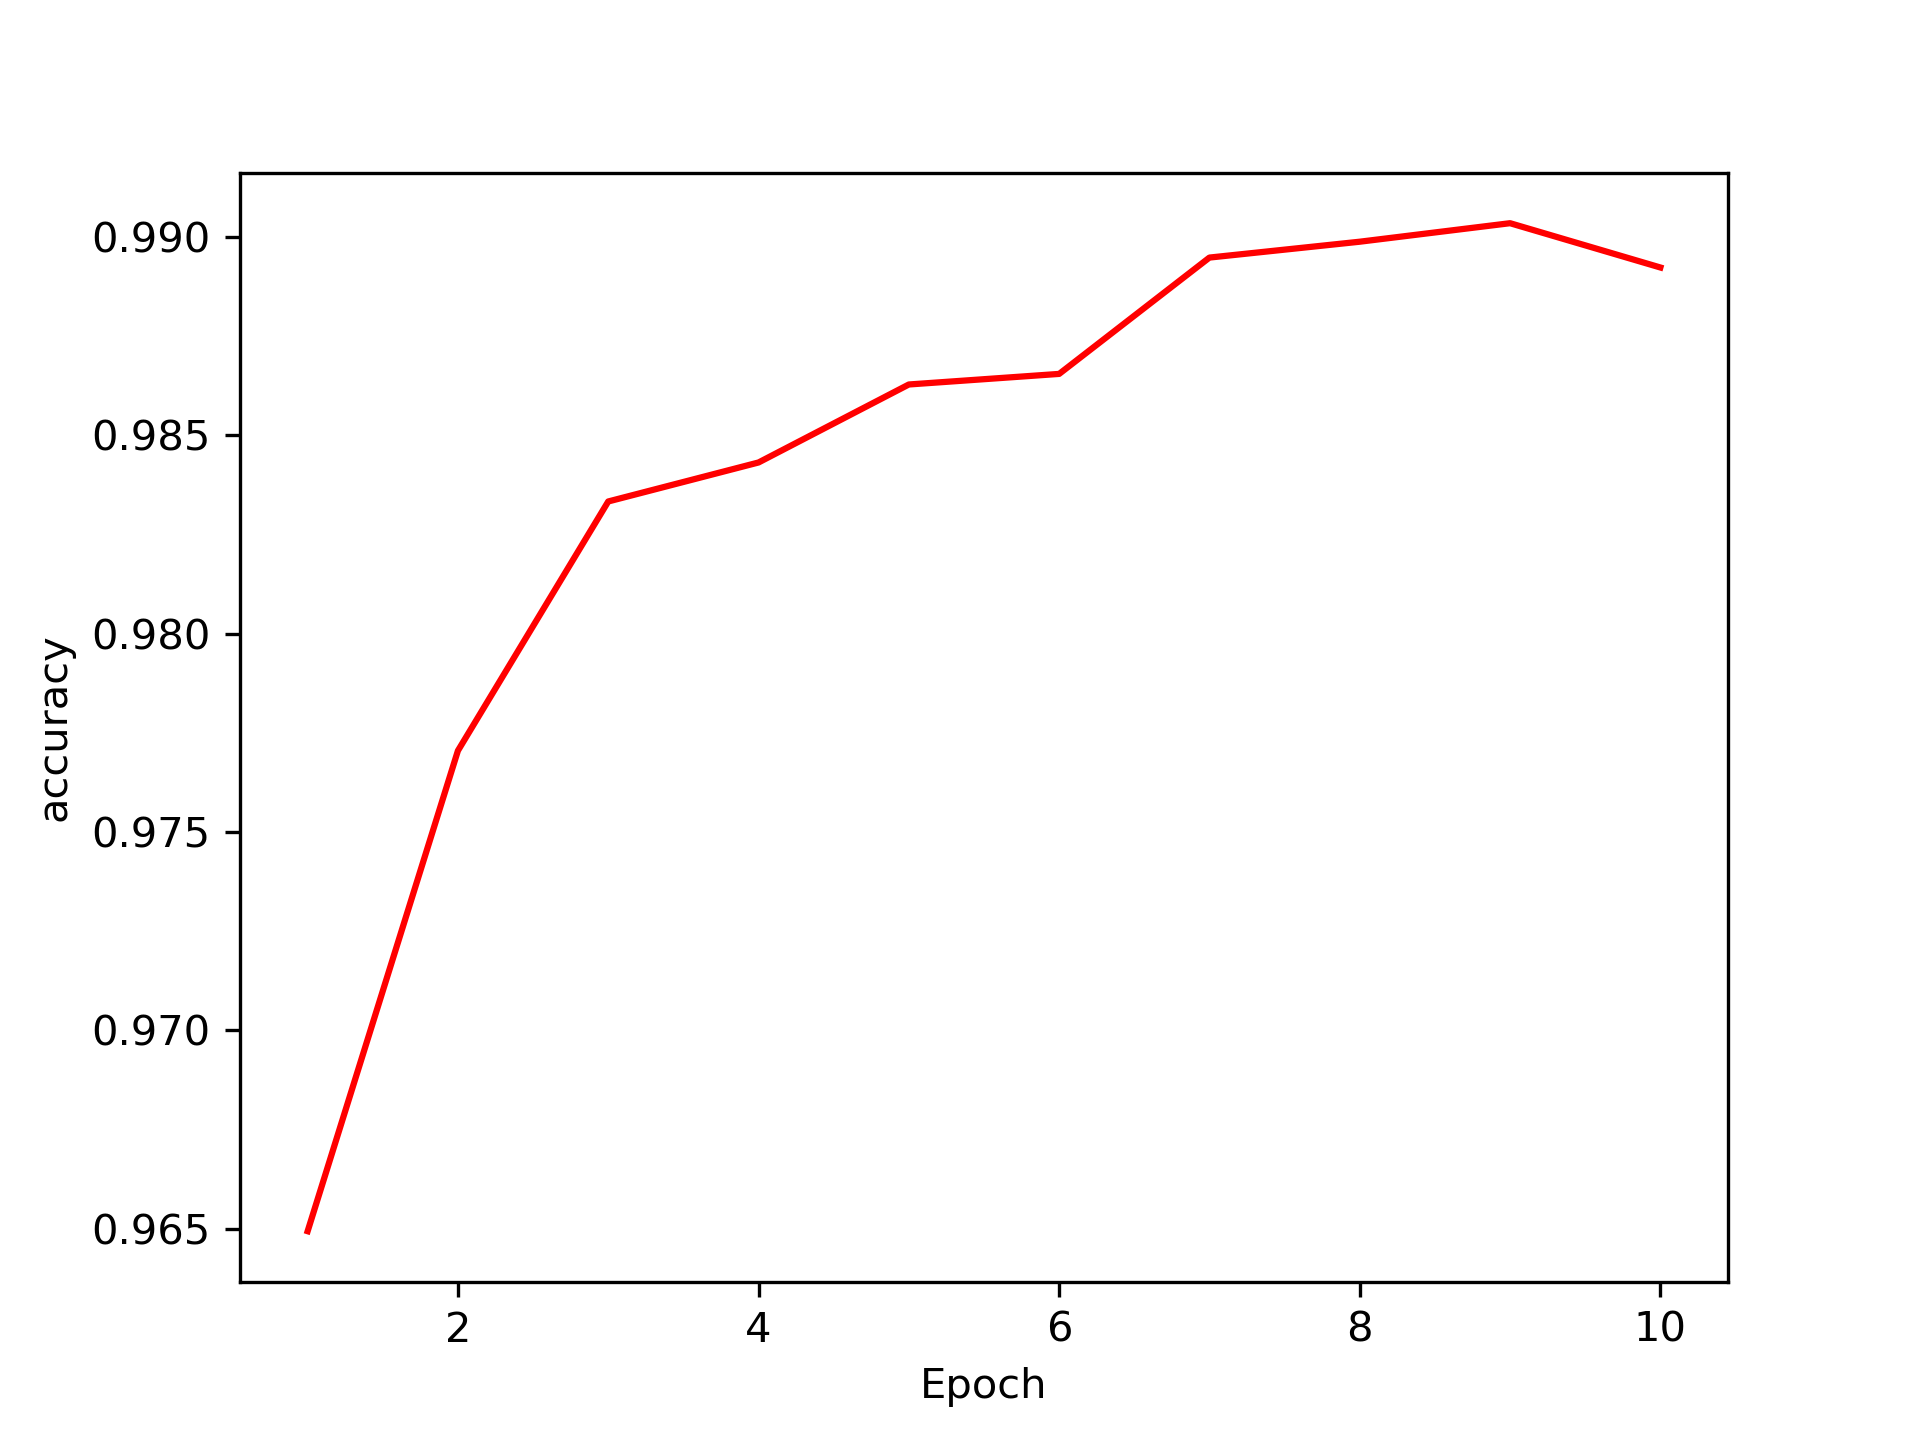
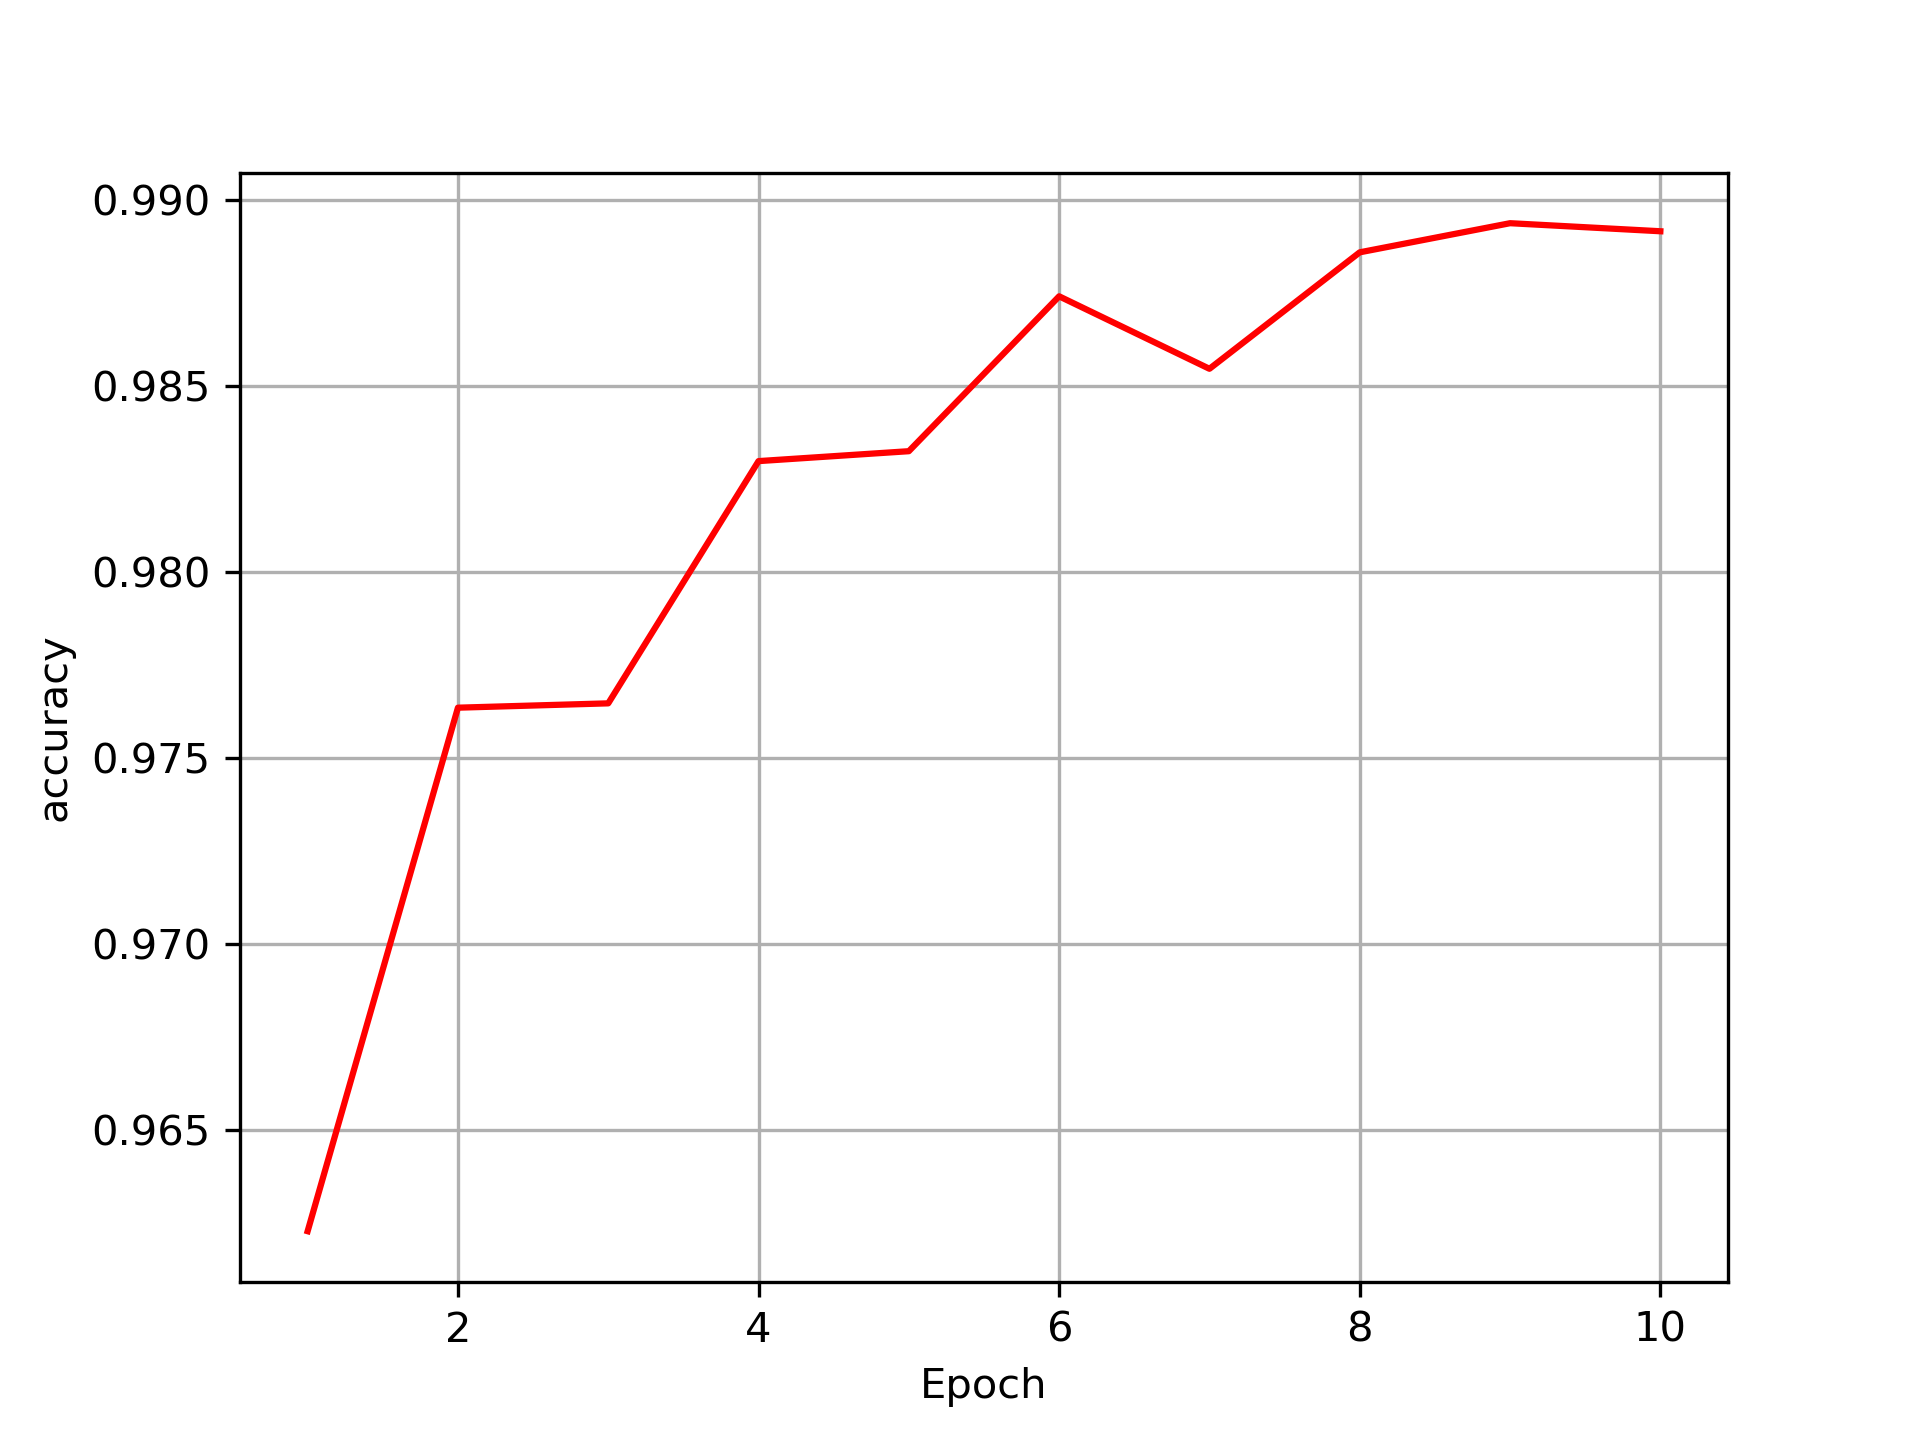
2007292312

diff --git a/study/study10_Basic_CNN.py b/study/study10_Basic_CNN.py
@@ -1,4 +1,4 @@
-# CNN
+# basic CNN
 import torch
 from torchvision import transforms
 from torchvision import datasets
@@ -72,8 +72,8 @@ def train(epoch):
         optimizer.step()
 
         running_loss += loss
-        if batch_idx % 300 == 299:
-            print('第%d轮,训练次数:%d,loss:%.3f' % (epoch + 1, batch_idx + 1, running_loss / 300))
+        if batch_idx % 200 == 199:
+            print('第%d轮,训练次数:%d,loss:%.3f' % (epoch + 1, batch_idx + 1, running_loss / 200))
             running_loss = 0.0
 
 
@@ -104,5 +104,6 @@ if __name__ == '__main__':
     plt.plot(epoch_ls, accuracy_ls, c='r')
     plt.xlabel('Epoch')
     plt.ylabel('accuracy')
-    plt.savefig('study10_basicCNN_MNIST.png', dpi=300)
+    plt.grid()
+    plt.savefig('study10_basic_CNN_MNIST.png', dpi=300)
     plt.show()

diff --git a/study/study11_Advanced_CNN.py b/study/study11_Advanced_CNN.py
@@ -1,0 +1,16 @@
+# advanced CNN
+import torch
+from torchvision import transforms
+from torchvision import datasets
+from torch.utils.data import DataLoader
+import numpy as np
+import matplotlib.pyplot as plt
+
+pass
+
+
+class Inception(torch.nn.Module):
+    def __init__(self):
+        pass
+
+
